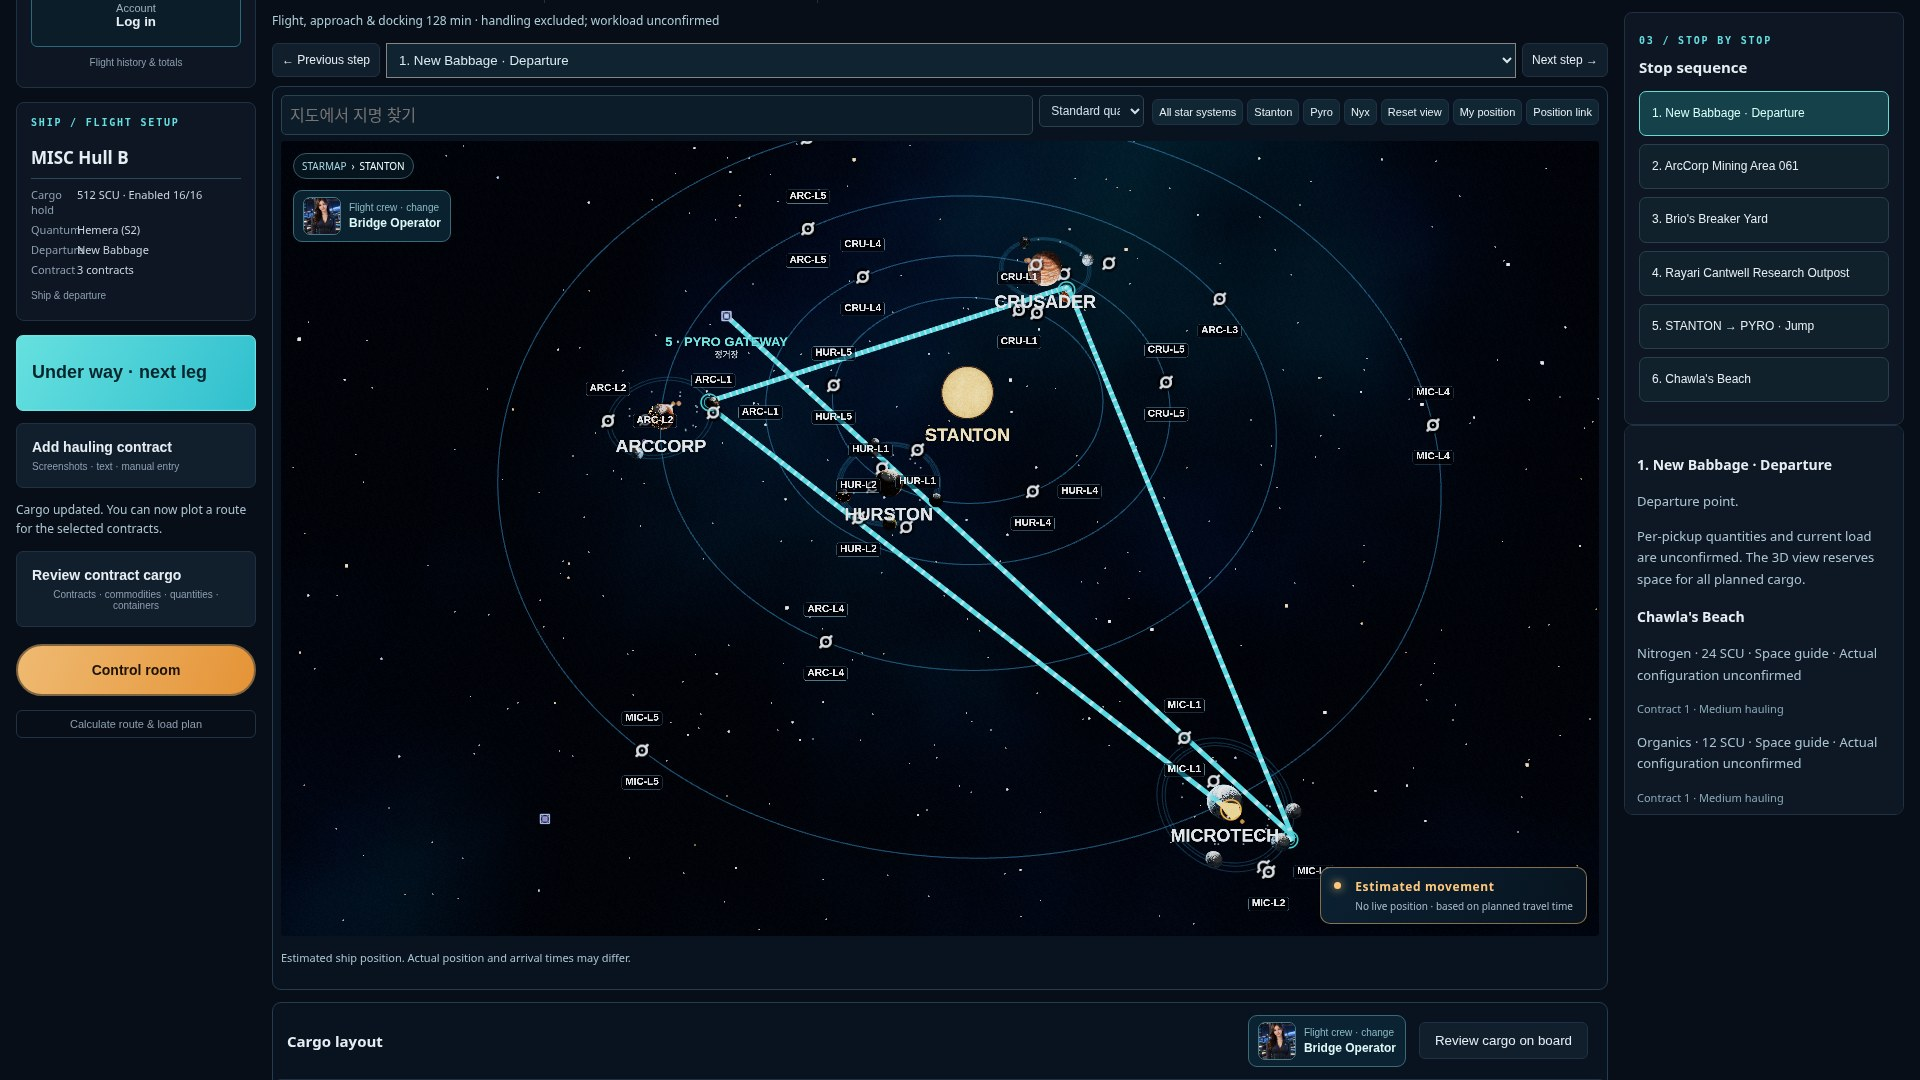
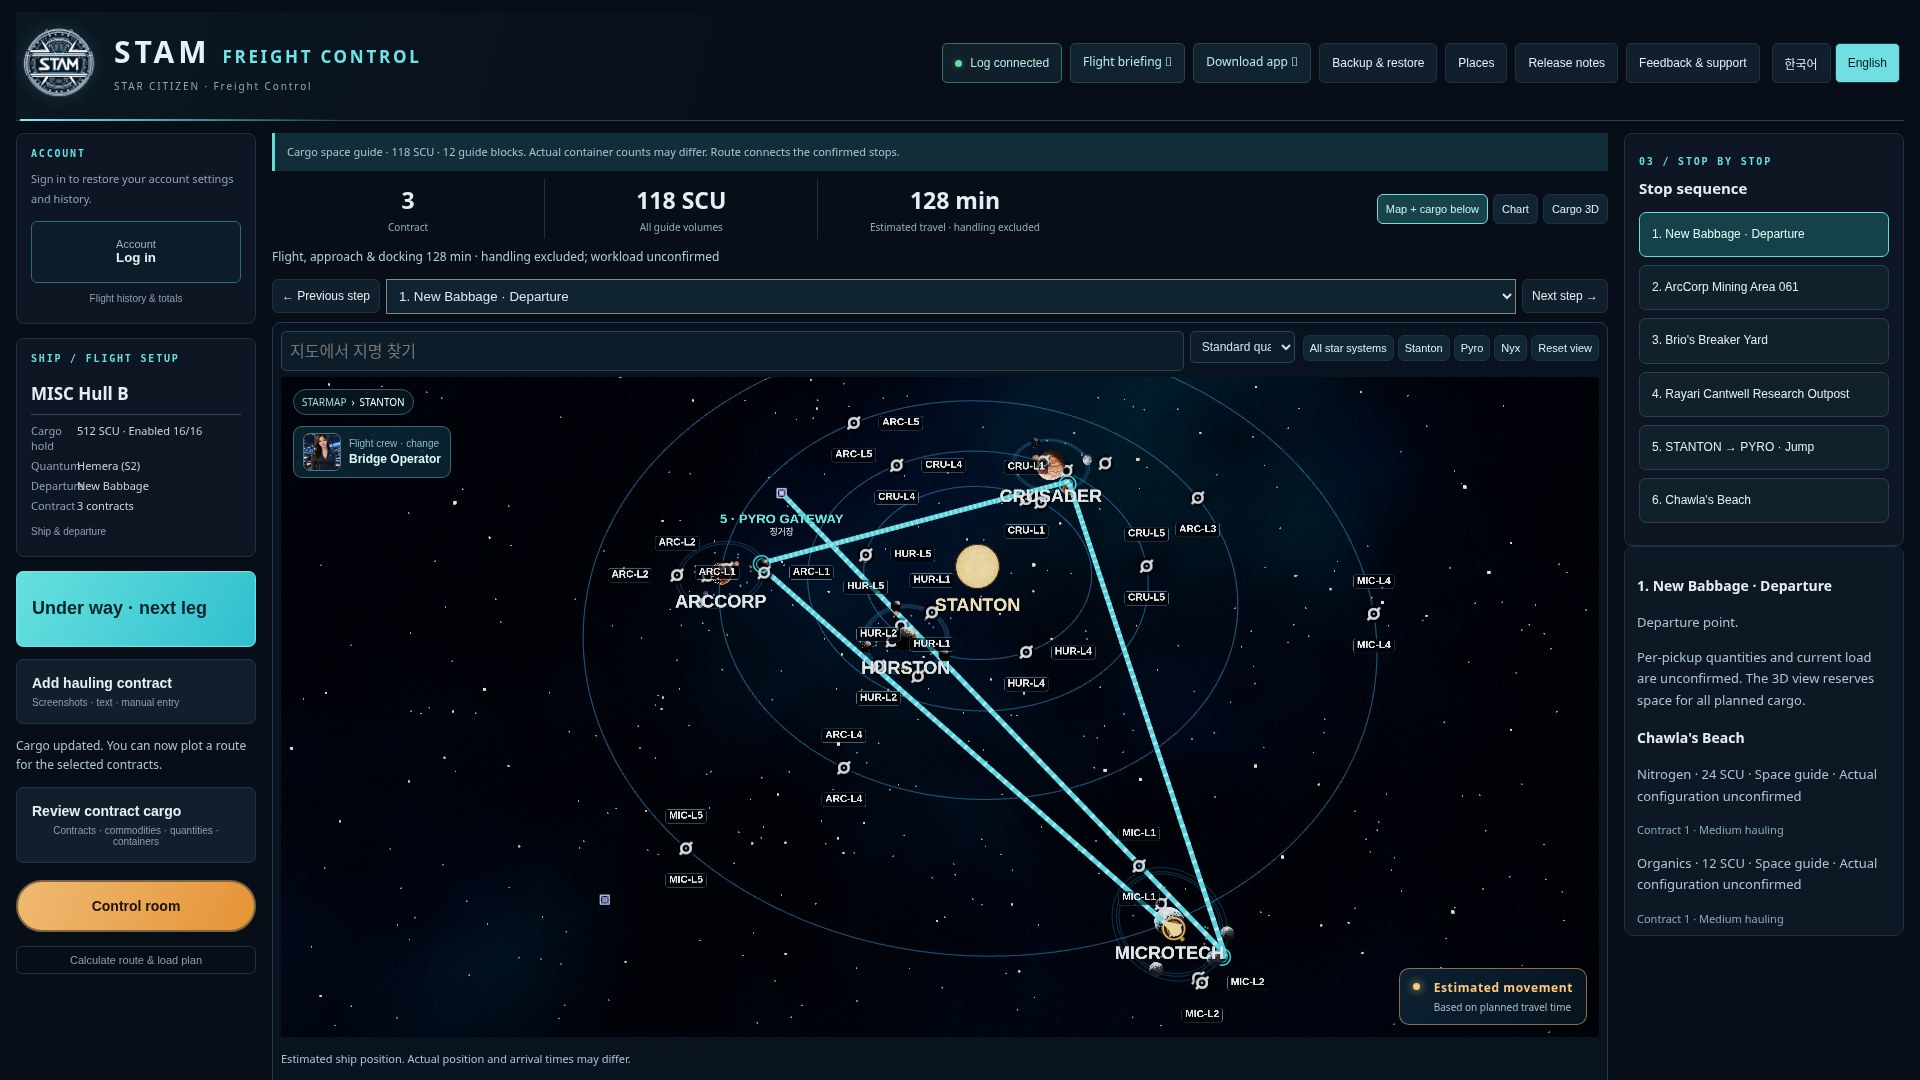
Complete bilingual briefing and verified Windows companion [publish desktop]

diff --git a/download.html b/download.html
@@ -1,1 +1,1 @@
-<!doctype html><html lang="ko"><head><meta charset="utf-8"><meta name="viewport" content="width=device-width,initial-scale=1"><meta name="referrer" content="no-referrer"><title>앱 다운로드 · STAM</title><link rel="icon" href="icon.svg"><link rel="stylesheet" href="onboarding/guide.css"><link rel="stylesheet" href="onboarding/brand.css"></head><body><header class="guide-header"><a class="brand masthead-brand" href="index.html"><img src="assets/stam-logo-transparent.png" width="78" height="78" alt="STAM"><span><b>STAM <em>FREIGHT CONTROL</em></b><small class="masthead-section">관제 연결 앱</small></span></a><nav><a href="guide.html">출항 안내</a><a href="index.html">관제로 돌아가기</a></nav></header><main class="download-layout"><p class="eyebrow">LOCAL BRIDGE / 관제 연결</p><h1>게임의 계약을, 내 운송 계획으로.</h1><p>작은 Windows 앱이 로그 연결을 맡고, 익숙한 브라우저에서 지도와 적재 3D를 엽니다.</p><section class="download-card"><span class="build-badge">개발판 · 실게임 검증 전</span><h2>STAM for Windows</h2><p>Windows 10/11 · x64 · 추가 설치 없이 실행</p><a class="download-button" id="app-download" href="https://github.com/limmin3-sudo/stam-freight-control/releases/tag/rebuild.20261104.20">배포 파일 확인</a><p id="download-status">배포 페이지에서 ZIP·SHA-256·검증 결과를 확인해 주세요.</p><p>ZIP 전체를 새 폴더에 풀고 <strong>STAM.exe</strong>를 실행하세요. Windows ARM은 이번 배포 대상이 아닙니다. 실행기에 코드 서명이 없으므로 Windows가 경고할 수 있습니다. 보안 기능을 끄지 말고 배포 출처를 확인해 주세요.</p><a href="guide.html#install">앱 실행부터 차근차근 →</a></section><section class="download-card"><h2>현재 사용할 수 있는 흐름</h2><ul><li>Game.log 읽기 전용 연결, 계약 수신·목표 갱신·종료 기록 확인</li><li>확인된 정보로 항로·적재 계획, 배송지별 적재 공간 가이드, 실제 상자 구성 직접 보정</li><li>파트너별 항로, 운송 중 새 계약 합류·보관, 남은 화물 유지</li><li>지도 항로 표시·예상 이동·관제 모드</li><li>계정별 운송 상태 복원, 완료 계약·지급 기록과 같은 계획의 안내 재개</li></ul><p>상자 개수가 없으면 배송지별 공간 가이드를 사용하고, 빠진 계약 정보는 해당 계약에서만 보완합니다.</p></section><section class="download-card"><h2>업데이트와 저장된 설정</h2><p>화면·항로·적재 기능은 사이트 업데이트로 받아 다음 앱 실행부터 적용합니다. 앱을 매번 새로 받을 필요는 없습니다. 앱 자체 업데이트가 안내될 때만 기존 실행기를 종료하고 새 ZIP을 별도 폴더에 풀어 주세요. 같은 PC·브라우저·기본 주소에서는 저장된 설정을 이어 씁니다.</p><p>브라우저 데이터를 지우거나 프로필·포트를 바꾸면 저장 공간이 달라집니다. 상단 백업·복원에서 현재 계정의 설정과 운송 기록을 파일로 보관할 수 있습니다. 다른 브라우저로 복원한 뒤에는 게임 계약을 로그에서 다시 읽어야 합니다.</p><a href="guide.html#recover">재접속과 이어가기 안내 →</a></section></main><footer class="legal">비공식 비영리 팬 도구 · CIG와 제휴하지 않습니다. Star Citizen 및 관련 상표는 해당 권리자 소유입니다. <a href="https://github.com/limmin3-sudo/stam-freight-control/blob/rebuild/log-evidence-foundation/THIRD-PARTY-NOTICES.md">데이터·라이선스 출처</a></footer><script type="module" src="onboarding/download.mjs"></script></body></html>
+<!doctype html><html lang="ko"><head><meta charset="utf-8"><meta name="viewport" content="width=device-width,initial-scale=1"><meta name="referrer" content="no-referrer"><title>앱 다운로드 · STAM</title><link rel="icon" href="assets/stam-logo-transparent.png"><link rel="stylesheet" href="onboarding/guide.css"><link rel="stylesheet" href="onboarding/brand.css"></head><body><header class="guide-header"><a class="brand masthead-brand" href="index.html"><img src="assets/stam-logo-transparent.png" width="78" height="78" alt="STAM"><span><b>STAM <em>FREIGHT CONTROL</em></b><small class="masthead-section">관제 연결 앱</small></span></a><nav><a href="guide.html">출항 안내</a><a href="index.html">관제로 돌아가기</a></nav></header><main class="download-layout"><p class="eyebrow">LOCAL BRIDGE / 관제 연결</p><h1>게임의 계약을, 내 운송 계획으로.</h1><p>작은 Windows 앱이 로그 연결을 맡고, 익숙한 브라우저에서 지도와 적재 3D를 엽니다.</p><section class="download-card"><span class="build-badge">개발판 · 실게임 검증 전</span><h2>STAM for Windows</h2><p>Windows 10/11 · x64 · 추가 설치 없이 실행</p><a class="download-button" id="app-download" href="https://github.com/limmin3-sudo/stam-freight-control/releases/tag/rebuild.20261104.20">배포 파일 확인</a><p id="download-status">배포 페이지에서 ZIP·SHA-256·검증 결과를 확인해 주세요.</p><p>ZIP 전체를 새 폴더에 풀고 <strong>STAM.exe</strong>를 실행하세요. Windows ARM은 이번 배포 대상이 아닙니다. 실행기에 코드 서명이 없으므로 Windows가 경고할 수 있습니다. 보안 기능을 끄지 말고 배포 출처를 확인해 주세요.</p><a href="guide.html#install">앱 실행부터 차근차근 →</a></section><section class="download-card"><h2>현재 사용할 수 있는 흐름</h2><ul><li>Game.log 읽기 전용 연결, 계약 수신·목표 갱신·종료 기록 확인</li><li>확인된 정보로 항로·적재 계획, 배송지별 적재 공간 가이드, 실제 상자 구성 직접 보정</li><li>파트너별 항로, 운송 중 새 계약 합류·보관, 남은 화물 유지</li><li>지도 항로 표시·예상 이동·관제 모드</li><li>계정별 운송 상태 복원, 완료 계약·지급 기록과 같은 계획의 안내 재개</li></ul><p>상자 개수가 없으면 배송지별 공간 가이드를 사용하고, 빠진 계약 정보는 해당 계약에서만 보완합니다.</p></section><section class="download-card"><h2>업데이트와 저장된 설정</h2><p>화면·항로·적재 기능은 사이트 업데이트로 받아 다음 앱 실행부터 적용합니다. 앱을 매번 새로 받을 필요는 없습니다. 앱 자체 업데이트가 안내될 때만 기존 실행기를 종료하고 새 ZIP을 별도 폴더에 풀어 주세요. 같은 PC·브라우저·기본 주소에서는 저장된 설정을 이어 씁니다.</p><p>브라우저 데이터를 지우거나 프로필·포트를 바꾸면 저장 공간이 달라집니다. 상단 백업·복원에서 현재 계정의 설정과 운송 기록을 파일로 보관할 수 있습니다. 다른 브라우저로 복원한 뒤에는 게임 계약을 로그에서 다시 읽어야 합니다.</p><a href="guide.html#recover">재접속과 이어가기 안내 →</a></section></main><footer class="legal">비공식 비영리 팬 도구 · CIG와 제휴하지 않습니다. Star Citizen 및 관련 상표는 해당 권리자 소유입니다. <a href="https://github.com/limmin3-sudo/stam-freight-control/blob/rebuild/log-evidence-foundation/THIRD-PARTY-NOTICES.md">데이터·라이선스 출처</a></footer><script type="module" src="onboarding/download.mjs"></script></body></html>

diff --git a/integration/log/deck-layout.css b/integration/log/deck-layout.css
@@ -121,3 +121,6 @@ button{background:var(--surface2);border-color:var(--line);color:var(--text)}
 dialog::backdrop,.ready-briefing::backdrop,.user-contract-dialog::backdrop{backdrop-filter:none;background:#020810e8}
 .rail-cargo-open.has-new-contracts{border-color:#efba72}.rail-cargo-open.has-new-contracts small{color:#efba72}
 .workspace-page{position:fixed;inset:0;width:100vw;height:100dvh;max-width:none;max-height:none;border:0;padding:0;margin:0;background:#08121b}.workspace-page:not([open]){display:none}.workspace-page iframe{display:block;width:100%;height:100%;border:0}body:has(.workspace-page[open]){overflow:hidden}
+
+/* Keep the entire chart in the viewport when route controls are present. */
+@media(min-width:901px){.preview-workspace:not(.preview-control-mode):not(.deck-idle) .preview-map-viewport{height:max(480px,calc(100dvh - 420px))}}

diff --git a/desktop/Launcher.cs b/desktop/Launcher.cs
@@ -62,6 +62,7 @@ internal static class Launcher {
     }
 }
 internal sealed class BridgeWindow : Form {
+    [System.Runtime.InteropServices.DllImport("user32.dll")] static extern bool DestroyIcon(IntPtr handle);
     Process child;string url;bool stopping;readonly System.Windows.Forms.Timer startup=new System.Windows.Forms.Timer{Interval=15000};
     readonly Label status=new Label(),path=new Label(),stateName=new Label();
     readonly DeckButton choose=new DeckButton(),open=new DeckButton(),stop=new DeckButton(),guide=new DeckButton();
@@ -120,7 +121,9 @@ internal sealed class BridgeWindow : Form {
         foreach(int height in new[]{108,60,114,108,64,50})layout.RowStyles.Add(new RowStyle(SizeType.Absolute,height));layout.RowStyles.Add(new RowStyle(SizeType.Percent,100));Controls.Add(layout);
         var heading=new TableLayoutPanel{Dock=DockStyle.Fill,ColumnCount=3,RowCount=1,Margin=Padding.Empty};heading.ColumnStyles.Add(new ColumnStyle(SizeType.Absolute,96));heading.ColumnStyles.Add(new ColumnStyle(SizeType.Percent,100));heading.ColumnStyles.Add(new ColumnStyle(SizeType.Absolute,140));
         logo.SizeMode=PictureBoxSizeMode.Zoom;logo.Dock=DockStyle.Fill;logo.Margin=new Padding(0,0,16,22);
-        try{using(var original=Image.FromFile(Path.Combine(AppDomain.CurrentDomain.BaseDirectory,"app","assets","stam-logo-transparent.png")))logo.Image=new Bitmap(original);}catch{}
+        try{using(var original=Image.FromFile(Path.Combine(AppDomain.CurrentDomain.BaseDirectory,"app","assets","stam-logo-transparent.png")))logo.Image=new Bitmap(original);
+            using(var iconBitmap=new Bitmap(logo.Image,32,32)){IntPtr handle=iconBitmap.GetHicon();try{using(var sourceIcon=System.Drawing.Icon.FromHandle(handle))Icon=(System.Drawing.Icon)sourceIcon.Clone();}finally{DestroyIcon(handle);}}
+        }catch{}
         heading.Controls.Add(logo,0,0);
         var brand=new TableLayoutPanel{Dock=DockStyle.Fill,RowCount=2,ColumnCount=1,Margin=Padding.Empty};brand.RowStyles.Add(new RowStyle(SizeType.Absolute,40));brand.RowStyles.Add(new RowStyle(SizeType.Percent,100));
         brand.Controls.Add(new Label{Text="STAM FREIGHT CONTROL",Dock=DockStyle.Fill,Font=new Font("Segoe UI Semibold",21,FontStyle.Bold),ForeColor=Ink,Margin=Padding.Empty});
@@ -147,7 +150,7 @@ internal sealed class BridgeWindow : Form {
         startup.Tick+=(sender,e)=>{startup.Stop();status.Text=T("연결 준비가 지연됐습니다. 이전 실행 창을 확인한 뒤 다시 시도해 주세요.");Disconnect(false);};
         FormClosing+=(sender,e)=>{if(child!=null&&MessageBox.Show(T("로그 연결을 종료할까요? 관제 화면의 저장된 설정은 유지됩니다."),"STAM",MessageBoxButtons.YesNo)!=DialogResult.Yes){e.Cancel=true;return;}Disconnect();};
     }
-    protected override void Dispose(bool disposing){if(disposing){startup.Dispose();hints.Dispose();if(logo.Image!=null){logo.Image.Dispose();logo.Image=null;}}base.Dispose(disposing);}
+    protected override void Dispose(bool disposing){if(disposing){startup.Dispose();hints.Dispose();if(logo.Image!=null){logo.Image.Dispose();logo.Image=null;}if(Icon!=null){Icon.Dispose();Icon=null;}}base.Dispose(disposing);}
     void SelectLog(){using(var dialog=new OpenFileDialog{Title=T("Star Citizen Game.log 선택 · 읽기 전용"),Filter=T("게임 로그 (Game.log)|Game.log|로그 파일 (*.log)|*.log"),CheckFileExists=true}){
         try{if(File.Exists(settings)){string prior=File.ReadAllText(settings);if(File.Exists(prior))dialog.FileName=prior;}}catch{}
         if(dialog.ShowDialog()!=DialogResult.OK)return;

diff --git a/PROJECT_STATUS.md b/PROJECT_STATUS.md
@@ -6,7 +6,7 @@
 - 새 투명 STAM 로고와 넓어진 헤더를 메인/안내/패치노트/다운로드에 공통 적용. 안내 전신 파트너는 여섯 포즈를 전환하며 표적을 강조, 동작 정지 지원.
 - 이용안내 13장/패치노트 72개 이력/다운로드 영문 연결. English preview 제거. 같은 탭 문서 뷰어가 관제를 유지하며 뒤로가기로 복귀. 오래된 앱의 프레임 제한은 동일 탭 이동으로 호환.
 - 앱 app.1.1.0: 한영 선택/기억/브라우저 언어 전달, 새 로고/레이아웃. 앱·사이트 업데이트 분리는 유지. 현재 공개 다운로드 app.1.0.1은 메타데이터 검증 후 교체 예정.
-- 로컬 확인: 미연결 최초 화면·2개 canvas·우측 방문 순서·모바일 가로 넘침·전신 포즈; 이전 118 SCU 혼합 계약→항로→적재·관제 전환 통과. 위치 제거 후 Node 351건 중350통과/Windows 전용1건 건너뜀. 최신 브라우저 검사 진행 중. Windows 컴파일/영문 캡처/게시 아직 미완료.
+- 로컬 확인: 미연결 최초 화면·2개 canvas·우측 방문 순서·모바일 가로 넘침·전신 포즈; 이전 118 SCU 혼합 계약→항로→적재·관제 전환 통과. 위치 제거 후 Node 351건 중350통과/Windows 전용1건 건너뜀. 최신 브라우저 검사 진행 중. Windows run 41859189652에서 전체 검사·EXE 컴파일·포함 런타임 실행·한영 UI 캡처 통과. 안내 언어 전환 링크 수정 후13장·한영·같은 탭 복귀 로컬 검사 통과. 게시 전 캡처/최종 배포 묶음 확인 중.
 - 새 웹/앱은 아직 공개하지 않았으며 사용자는 기존 공개 앱으로 실게임 검증을 시작해도 된다고 안내받음. 이전 수동판/저장 데이터와 사전 작업 stash 유지.
 
 # 현재 프로젝트 상태 — Codex·Claude 공통
